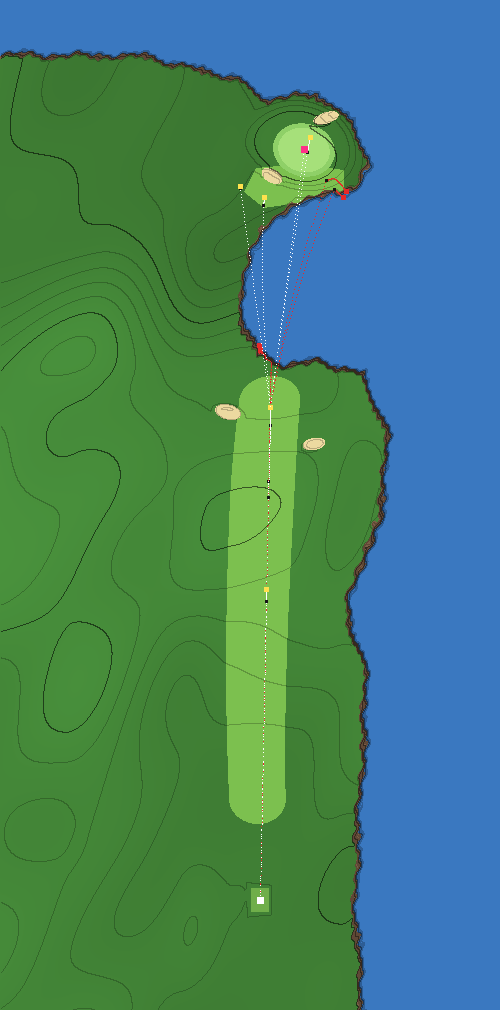
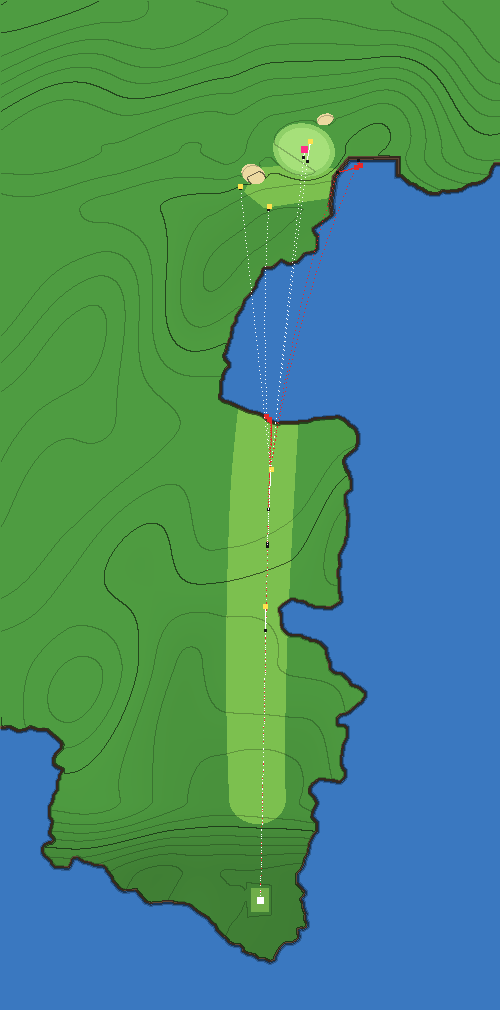
Pebble 8: coastline, heights and greenside bunkers from the lidar
The coastline is the lidar's, read on the cliff face; the plateau ends at
z ~245, so the approach checks start where the pure 3-wood now stops.
The sea is brought in under the green's front-right (§5: heights run
along the hole only, so the real 40 % bank to the sea is flat in the
game). Fairway bunkers dropped (none in the lidar). Recovery test and
ICONIC-HOLES §3 updated.

Claude-Session: https://claude.ai/code/session_01L6C3mgW8iMSD9JZeturm7K

diff --git a/index.html b/index.html
@@ -451,17 +451,22 @@ const HOLES=[
   fw:[[40,14],[200,16],[262,15]],fairway:[[38,262]],
   green:{x:-22,z:375,rx:13,rz:11,rot:0.25},pin:{x:-22,z:375.4},tilt:{x:0.02,z:-0.03},
   features:[
-    {type:'ramp',z0:30,z1:200,dh:5},                                   // the drive climbs to the plateau
-    {type:'ramp',z0:195,z1:262,dh:-2.2},                               // ...which tips toward the cliff edge, so a long drive runs out of land
-    {type:'ramp',z0:262,z1:335,dh:-6},                                 // beyond the chasm the land is lower: the approach plays downhill
-    {type:'rise',area:{x:-22,z:377,rx:19,rz:15,rot:0.25},dh:3,edge:11},  // the green is perched on a knoll above the chasm
+    // heights from the 2017-18 USGS lidar (docs/holes/trace/pebble-8.json), read along the fairway's left half (x 12): the straight tee-pin line hugs the cliff and clips an inlet at z 126-153
+    {type:'ramp',z0:12,z1:50,dh:6.6},                                  // the drive climbs to the plateau: steeply for the first 50 yd...
+    {type:'ramp',z0:50,z1:120,dh:2.6},
+    {type:'ramp',z0:120,z1:225,dh:2.8},                                // ...then gently to its end, 12 yd above the tee
+    {type:'ramp',z0:230,z1:345,dh:-4.2},                               // beyond the chasm the land is lower: the approach plays downhill
+    {type:'ramp',z0:345,z1:375,dh:2.4},                                // up to the green, 8.5 yd above the tee
+    {type:'ramp',z0:375,z1:450,dh:7.2},                                // and the hill behind it
     {type:'cover',area:{pts:[[-2,346],[8,354],[2,366],[-20,368],[-42,365],[-42,352]]},surf:'FAIRWAY'},  // shaved bank in front: short shots roll back to the sea
   ],
   play:{wind:[6,18],greens:{speed:1.1}},
-  bunkers:[{x:-6,z:362,rx:6,rz:3.5,rot:0.5},{x:-33,z:391,rx:7,rz:3,rot:-0.3},{x:16,z:244,rx:7,rz:4,rot:0.25},{x:-27,z:228,rx:6,rz:3.2,rot:-0.2}],
-  water:[{kind:'ocean',profile:'cliff',level:-9,bed:-15,edge:3.5,jag:1.6,
-    shape:{type:'outside',pts:[[2000,-2000],[-50,-2000],[-50,-60],[-46,0],[-48,40],[-52,110],[-41,150],[-60,195],[-62,232],[-50,262],
-      [-30,268],[-12,266],[2,272],[10,288],[11,308],[6,326],[-3,340],[-16,349],[-32,353],[-46,357],[-52,368],[-46,388],[-27,402],[-4,399],[14,410],[60,421],[2000,430]]}}],
+  // greenside bunkers at the lidar's two hollows by the green (3 m relief: front-left 14 x 11.5 yd, back-right 8.5 x 5.5 yd); no fairway bunkers in the lidar
+  bunkers:[{x:3.4,z:363,rx:6.5,rz:5,rot:0.5,depth:0.45,lip:0.25},{x:-32.6,z:390.3,rx:4.5,rz:3,rot:-0.3,depth:0.45,lip:0.25}],
+  water:[{kind:'ocean',profile:'cliff',level:-8.56,bed:-14.5,edge:2,   // the coastline from the lidar, read on the cliff face at 7 m (lidar.py build, water.tol 6), carried out past the hole's edges; level at the real water, 1.15 m
+    shape:{type:'poly',pts:[[-117,368.8],[-118.5,368.8],[-2000,367.5],[-2000,-2000],[-2000,-2000],[2000,-2000],[2000,-2000],[2000,86.5],[2000,87.2],[128.5,86.8],[125,87.2],[121,85.2],[117.5,85.8],[115,87.2],[111,85.8],[109,85.8],[108.5,86.2],[108,85.8],[106.5,85.8],[100.8,81],[99.2,79.5],[98.2,77.5],[98.8,77],[98.8,75.5],[101.8,72.5],[102.8,70.5],[102.8,68.5],[101.5,67.2],[99,66.2],[98.2,65.5],[98.2,64.5],[99.8,62],[99.8,60.5],[100.8,59],[100.8,55],[102.8,52],[103.2,49],[104.8,46.5],[104.8,42],[103.2,39.5],[104.8,33.5],[102.8,31],[102.8,29.5],[104,28.2],[105.5,28.2],[107.5,27.2],[108.2,26],[108.2,24],[107.2,22.5],[104.2,20],[103.8,18.5],[102.5,17.2],[96,16.8],[94.8,19.5],[94.8,20.5],[93.5,21.8],[92,21.8],[91.5,22.2],[88,19.8],[85,19.2],[83,18.2],[81.5,18.2],[81,17.8],[78.5,17.8],[76.8,16.5],[76.2,15],[73.8,12],[73.2,10],[70,6.2],[68,5.2],[62,5.8],[57,-0.2],[54.5,-1.2],[53.5,-0.8],[49.5,-0.8],[49,-0.2],[43.5,-0.2],[43,-0.8],[38.5,-0.8],[38,-1.2],[35,-1.8],[31,-5.2],[26,-8.2],[23.8,-11],[22.2,-12],[21.2,-14.5],[18,-17.8],[17.5,-17.8],[15,-20.8],[12.5,-21.8],[10.5,-21.8],[9.5,-22.2],[8.2,-24],[8.2,-25],[6,-26.2],[3,-26.8],[0.5,-28.8],[-2,-28.8],[-5,-30.2],[-6.8,-29.5],[-6.8,-28.5],[-9.2,-24],[-12,-21.2],[-13,-20.8],[-16,-20.8],[-18.2,-19.5],[-18.8,-18.5],[-18.2,-14.5],[-19,-13.8],[-20,-13.8],[-20.5,-13.2],[-21.5,-13.8],[-22.8,-13],[-22.8,-11.5],[-21.8,-9.5],[-22.2,-7],[-20.8,-3],[-20.8,-1.5],[-19.8,0.5],[-21.8,3],[-21.8,4],[-17.8,8.5],[-17.8,13],[-20.2,16],[-21.2,18],[-21.8,21],[-23.2,23.5],[-24.2,29],[-26.2,33],[-27.8,34.5],[-27.8,38.5],[-25.2,41.5],[-25.8,44.5],[-27.8,48.5],[-26.2,51.5],[-24.2,53.5],[-24.2,56],[-25.8,58.5],[-29.5,61.2],[-32,61.2],[-32.5,60.8],[-38,60.2],[-38.5,59.8],[-40,59.8],[-41.2,61],[-41.8,62],[-41.8,64.5],[-40.8,65.5],[-39.8,68],[-39.8,72],[-40.2,72.5],[-40.8,77.5],[-42.8,81.5],[-42.8,86],[-41.5,86.8],[-39,86.8],[-37.8,88],[-37.8,91],[-40,93.2],[-42.5,93.8],[-44.5,94.8],[-49.5,99.2],[-50,99.2],[-51.8,102],[-51.8,103.5],[-49,105.8],[-45,107.2],[-43.8,109.5],[-41,112.2],[-40,112.8],[-38,112.8],[-36,113.8],[-34.8,115],[-34.2,116],[-34.2,118.5],[-32.8,121.5],[-32.2,125.5],[-29.5,128.2],[-27,129.2],[-25,129.2],[-24,130.2],[-21.5,130.8],[-20,131.8],[-15.5,131.8],[-13,132.8],[-10.2,136],[-10.2,137.5],[-9.8,138],[-9.8,142],[-9.2,142.5],[-9.8,143],[-9.2,143.5],[-8.8,146],[-11,148.2],[-15.5,151.2],[-17,151.2],[-19,150.2],[-22.5,149.8],[-24.5,148.2],[-25.5,148.2],[-27.5,147.2],[-32,147.2],[-32.5,146.8],[-35.5,146.8],[-39.8,149.5],[-39.2,153.5],[-38.8,154],[-38.8,161],[-38.2,161.5],[-38.2,165],[-39.2,167],[-38.8,172.5],[-41.8,178.5],[-42.2,181.5],[-42.8,182],[-43.2,192.5],[-42.8,193],[-42.8,196],[-42.2,196.5],[-41.8,202.5],[-43.5,204.8],[-44.8,205.5],[-44.8,210],[-44.2,210.5],[-43.8,213.5],[-42.2,215.5],[-42.2,216.5],[-41.2,218.5],[-41.2,220],[-42.2,222],[-47.2,226],[-48.2,228.5],[-48.2,232.5],[-47.2,235],[-46,236.2],[-44,237.2],[-43.2,238.5],[-41,240.2],[-38.5,241.2],[-37.5,240.8],[-27.5,240.2],[-24,238.8],[-20,238.8],[-19.5,238.2],[-10.5,238.2],[-10,237.8],[-8,237.8],[-4,239.2],[-1,241.8],[1,242.8],[6,243.8],[15.5,248.2],[19,249.2],[20.8,251],[20.8,253],[20.2,253.5],[20.2,259.5],[19.2,261],[19.2,262.5],[17.8,265.5],[16.2,267],[16.2,268],[18.2,270.5],[18.8,272.5],[17.8,274],[15.8,281],[15.2,281.5],[14.8,286.5],[12.8,289.5],[12.8,291.5],[9.8,296],[8.2,300.5],[5.2,303.5],[2.8,307],[2.2,309.5],[-0.2,313],[-0.8,315.5],[-2,316.8],[-5.5,316.8],[-6.5,317.2],[-10.5,320.8],[-14,318.8],[-15.5,318.8],[-16,319.2],[-18.5,319.8],[-22,323.8],[-27,324.8],[-27.8,326],[-27.8,332],[-26.8,333],[-25.8,335],[-25.8,336],[-34.5,342.2],[-36,342.8],[-41,348.8],[-43,349.8],[-46.5,350.2],[-48.2,353],[-52.2,356.5],[-52.2,357.5],[-54,359.8],[-56.5,361.2],[-62,360.8],[-63,360.2],[-66,362.2],[-70.5,362.8],[-75,358.8],[-77.5,358.2],[-79,356.8],[-81,356.2],[-84,354.2],[-85,354.2],[-85.5,353.8],[-89,353.8],[-91,355.2],[-94.5,354.8],[-95,355.2],[-98.5,355.2],[-99,355.8],[-100.5,355.8],[-104,358.2],[-105,358.2],[-105.5,358.8],[-108,358.8],[-111.5,360.2],[-114.2,362.5],[-115.2,366]]}},
+    {kind:'ocean',profile:'cliff',level:-8.56,bed:-14.5,edge:3.5,   // exaggerated (§5): the sea brought 12 yd in under the green's front-right, to about the 13 m contour of the bank that falls to it at 40 %
+      shape:{type:'poly',pts:[[-36,334],[-34,348],[-36,362],[-44,372],[-70,372],[-70,334]]}}],
   bbox:{x0:-120,x1:130,z0:-55,z1:450},
   trees:[{type:'cypress',n:20,zone:'sides',side:'left',d:[10,60],z:[-10,385],s:[0.95,1.4]},
          {type:'cypress',n:5,zone:'rect',x:[-42,-16],z:[-40,40],s:[1,1.3]},

diff --git a/tests/hole-checks.js b/tests/hole-checks.js
@@ -15,10 +15,10 @@ module.exports = {
       { name: 'a pure driver runs off the end of the plateau into the chasm', shot: { club: 'Hammer', at: [-5, 250], power: 1 }, expect: { end: 'water' } },
       { name: 'even a 90% driver still finds the chasm', shot: { club: 'Hammer', at: [-5, 250], power: 0.9 }, expect: { end: 'water' } },
       { name: 'a pure 3-wood stops on the plateau, short of the cliff', shot: { club: '3-Wood', at: [-5, 250], power: 1 }, expect: { end: 'rest', surf: ['FAIRWAY'] } },
-      { name: 'from there a well-struck iron carries the chasm and holds the green', shot: { from: [-5, 247], club: 'Iron', offset: 0.1 }, expect: { surf: ['GREENS'], maxToPin: 8 } },
-      { name: 'a chunked approach comes up short in the chasm', shot: { from: [-5, 247], club: 'Iron', offset: 0.7 }, expect: { end: 'water' } },
-      { name: 'a ball short-right on the shaved bank feeds back down to the sea', shot: { from: [-5, 247], club: 'Iron', offset: 0.55 }, expect: { end: 'water' } },
-      { name: 'the bail-out left, around the head of the cove, stays dry', shot: { from: [-5, 247], club: 'Iron', at: [10, 356], offset: 0.5 }, expect: { end: 'rest' } },
+      { name: 'from there a well-struck iron carries the chasm and holds the green', shot: { from: [-5, 215], club: 'Iron', offset: 0.1 }, expect: { surf: ['GREENS'], maxToPin: 8 } },
+      { name: 'a chunked approach comes up short in the chasm', shot: { from: [-5, 215], club: 'Iron', offset: 0.7 }, expect: { end: 'water' } },
+      { name: 'a ball short-right on the shaved bank feeds back down to the sea', shot: { from: [-5, 215], club: 'Iron', offset: 0.55 }, expect: { end: 'water' } },
+      { name: 'the bail-out left, around the head of the cove, stays dry', shot: { from: [-5, 215], club: 'Iron', at: [10, 356], offset: 0.5 }, expect: { end: 'rest' } },
     ],
     strategies: [
       { name: 'tee club', plans: [
@@ -30,8 +30,8 @@ module.exports = {
           ['the 3-wood is the play: dry and the best score for both players', r => r['3-wood'].sharp.hazard === 0 && r['3-wood'].sharp.score < r.driver.sharp.score && r['3-wood'].sharp.score < r.iron.sharp.score && r['3-wood'].shaky.score < r.driver.shaky.score],
           ['laying back with an iron is safe but leaves a long approach', r => r.iron.sharp.toPin > r['3-wood'].sharp.toPin + 60] ] },
       { name: 'approach line', plans: [
-          { name: 'pin', shot: { from: [-5, 247], club: 'Iron' } },
-          { name: 'bail', shot: { from: [-5, 247], club: 'Iron', at: [10, 356] } } ],
+          { name: 'pin', shot: { from: [-5, 215], club: 'Iron' } },
+          { name: 'bail', shot: { from: [-5, 215], club: 'Iron', at: [10, 356] } } ],
         expect: [
           ['going at the pin risks the chasm for a shaky player', r => r.pin.shaky.hazard > 0.05 && r.bail.shaky.hazard === 0],
           ['a sharp player hits the green every time', r => r.pin.sharp.hazard === 0 && r.pin.sharp.surfs.GREENS === r.pin.sharp.n],

diff --git a/tests/holes.test.js b/tests/holes.test.js
@@ -259,10 +259,10 @@ test('recovery: on the real holes, the Road Hole bunker pays the most, ordinary 
   assert.ok(recovery(course, { x: road.x, z: road.z }, 'SAND') >= 0.9 * RECOVERY.cap, 'a ball in the pot bunker whose face is the whole story');
   course.prepHole(idx('pebble-8'));
   const bunker = (x, z) => course.BUNKERS.find(b => b.x === x && b.z === z);
-  const beside = bunker(-33, 391), below = bunker(-6, 362);                    // both default bunkers (0.9 deep, 0.25 lip) within 25 yd of the pin
+  const beside = bunker(-32.6, 390.3), front = bunker(3.4, 363);                  // both from the lidar (0.45 deep, 0.25 lip), within 25 yd of the pin
   const rec = b => recovery(course, { x: b.x, z: b.z }, 'SAND');
-  assert.ok(rec(beside) < 0.2, 'a default bunker beside the green is within the lie charge');
-  assert.ok(rec(below) > 3 * rec(beside) && rec(below) > 0.5, 'the one short of the raised green pays far more: the bank above it is the face to climb');
+  // the lidar sets both level with the green (no knoll above them, as the game's design had), so neither has a face to climb: docs/holes/pebble-8.md §6
+  assert.ok(rec(beside) < 0.2 && rec(front) < 0.2, 'shallow bunkers level with the green are within the lie charge');
   course.prepHole(idx('pinehurst-5'));
   assert.equal(recovery(course, { x: 24, z: 432 }, 'FAIRWAY'), 0, 'the lay-up to the elevated plateau is an ordinary wedge');
 });

diff --git a/docs/holes/pebble-8.md b/docs/holes/pebble-8.md
@@ -33,12 +33,12 @@
 
 | Real feature | Game expression | Parameters | What it does to play |
 |---|---|---|---|
-| Uphill drive to a plateau | `ramp` | z 30→200, +5 yd | drives land sooner (shorter carry); the far end is hidden from the tee |
-| Plateau tips to the cliff edge | `ramp` | z 195→262, −2.2 yd | a long drive keeps rolling toward the edge |
-| Fairway runs out at the cliff | `fairway` interval ends at z 262; ocean inlet cut into the coastline (`outside` polygon) | inlet z 266–357, head at x ≈ +11 | anything that rolls past ~265 yards falls into the sea |
-| Land beyond the chasm is lower | `ramp` | z 262→335, −6 yd | the approach plays downhill |
-| Green perched above the chasm | `rise` | ellipse around the green, +3 yd, edge 11 | banks fall away on every side, steepest toward the chasm |
+| Uphill drive to a plateau | three `ramp`s from the 2017-18 USGS lidar, read along the fairway's left half | +6.6 yd over z 12→50, then +5.4 to the plateau's end (12 yd above the tee) | drives land sooner; a pure 3-wood stops 161 from the pin |
+| Fairway runs out at the cliff | the lidar's coastline as the ocean (`poly`, `cliff` profile), read on the cliff face at 7 m | the plateau ends at z ≈ 245; the cove runs to z ≈ 320 on the line | anything that rolls past ~245 yards falls into the sea |
+| Land beyond the chasm is lower | `ramp`s from the lidar | −4.2 yd to the far shore, +2.4 to the green (3.2 below the plateau), +7.2 up the hill behind | the approach plays downhill |
+| Bank falling to the sea right of the green | a second ocean body brought 12 yd in under the green's front-right (§5) | to about the 13 m contour | short-right goes in the sea |
 | Bank in front of the green | `cover` → FAIRWAY | polygon z 346–368 | closely mown, so short balls roll back to the sea instead of stopping in rough |
+| Greenside bunkers | the lidar's two hollows by the green | front-left 13 × 10 yd, back-right 9 × 6 yd, 0.45 deep; no fairway bunkers (none in the lidar) | |
 | Small green, back to front | `green` | 26 × 22 yd, `tilt.z` −0.03 | putts from above are fast; balls feed toward the front |
 | Coastal wind, fast greens | `play` | wind 6–18 mph, `greens.speed` 1.1 | |
 
@@ -49,65 +49,105 @@
 | Characteristic | Real | Game | Why |
 |---|---|---|---|
 | Run-out off the tee | longest hitters club down | a pure driver (and a 90% one) goes into the sea; a pure 3-wood stops ~16 yd short of the edge | makes club choice the tee decision, as it is for pros |
-| Chasm | carry over the cove | ~70 yd of ocean between plateau and green-side bank | a chunk (−20%+ distance) must pay |
+| Chasm | carry over the cove | as the lidar has it (about 75 yd of sea on the line); a chunk pays | — |
+| The bank right of the green | falls 12 m to the sea at about 40 % | the sea brought in to about its 13 m contour (12 yd in) | the game's heights run along the hole only, so the real sideways bank is flat in the game and short-right balls stayed on it; this makes short-right wet, as it is |
 | Shaved bank | rough slope | fairway-cut slope from the green to the cliff | short-right feeds into the sea |
-| Downhill approach | moderate | ~6 yd lower than the plateau | |
+| Downhill approach | 3.3 m (lidar) | 3.2 yd below the plateau | |
 
-**Realism bounds** (`node tests/tools/slope.js pebble-8`, `docs/maps/pebble-8-slope.png`): the green is one tilted plane (`tilt` 3.6 %), so all of the putting surface is in the 2.5–4 % band: no steep ring (0 % over 4 %) and not a dome (tilt coherence 1.00), but the "gentle top" and "flat pockets" bounds read WARN. Deliberate: the design wants fast putts from above and balls that feed along the slope (§4), and the edge-shedding is done by the `rise` around the green, outside the putting surface. Written before the bounds existed; recorded here, not reshaped.
+**Realism bounds** (`node tests/tools/slope.js pebble-8`, `docs/maps/pebble-8-slope.png`): the green is one tilted plane (`tilt` 3.6 %), so all of the putting surface is in the 2.5–4 % band: no steep ring (0 % over 4 %) and not a dome (tilt coherence 1.00), but the "gentle top" and "flat pockets" bounds read WARN. Deliberate: the design wants fast putts from above and balls that feed along the slope (§4), Written before the bounds existed; recorded here, not reshaped. The green is still the ellipse: no aerial yet.
 
 ## 6. Validation
 
 All in `tests/hole-checks.js` → `pebble-8`.
 
-| Shot | Expected | Result |
-|---|---|---|
-| Pure driver, down the middle | water | ✅ water (was fairway before Phase 3) |
-| 90% driver | water | ✅ water |
-| Pure 3-wood | fairway, short of the cliff | ✅ fairway, 130 yd left |
-| Iron from there, slight mishit (0.1) | green within 8 yd | ✅ 7 yd |
-| Chunked iron (0.7) | water | ✅ (was rough) |
-| Thin-right iron (0.55) lands on the shaved bank | water | ✅ (was rough) |
-| Bail-out left around the cove (0.5 miss) | dry | ✅ |
+| Shot | Expected |
+|---|---|
+| Pure driver, down the middle | water |
+| 90% driver | water |
+| Pure 3-wood | fairway, short of the cliff |
+| Iron from (−5, 215), slight mishit (0.1) | green within 8 yd |
+| Chunked iron (0.7) | water |
+| Thin-right iron (0.55) lands on the shaved bank | water |
+| Bail-out left around the cove (0.5 miss) | dry |
 
 | Decision | Must hold | Result |
 |---|---|---|
-| Tee club: driver / 3-wood / iron | driver wet more often than not; 3-wood dry and best for both skills; iron leaves 60+ yd more | driver wet 100% (sharp) / 48% (shaky); 3-wood 0% wet, best score; iron leaves 222 vs 137 |
-| Approach: pin / bail left | pin risks the chasm for a shaky player; sharp always greens it; bail is dry but costs 0.5+ strokes | pin wet 10% for shaky (0% before); bail costs ~0.9 strokes |
+| Tee club: driver / 3-wood / iron | driver wet more often than not; 3-wood dry and best for both skills; iron leaves 60+ yd more | driver wet 100% (sharp) / 57% (shaky); 3-wood best for both |
+| Approach: pin / bail left | pin risks the chasm for a shaky player; sharp always greens it; bail is dry but costs 0.5+ strokes | pin wet 24% for shaky; bail costs a sharp player 1.02 strokes |
+
+**Check-change log**
+
+| Check | Was | Now | Why |
+|---|---|---|---|
+| The approach shots and the approach strategy | from (−5, 247) | from (−5, 215) | The lidar ends the plateau at z ≈ 245, so (−5, 247) is over the sea; (−5, 215) is where the pure 3-wood now stops (161 from the pin) |
+| `tests/holes.test.js` recovery test (Pebble's bunkers) | the bunker short of the raised green pays over 0.5 strokes and 3 × the one beside it | both greenside bunkers are within the lie charge (< 0.2) | The lidar has no knoll: the front-left bunker sits level with the green (floor 18.5 m, green 18.8 m), so there is no face to climb; the Road Hole bunker part of the test is unchanged |
 
 ## 7. Results
 
 ```
 === Pebble Beach (pebble-8) — Distance control off the tee (the plateau ends at a cliff), then a forced carry over an ocean chasm to a small, back-to-front green.
 shot                                                                           before           after
-a pure driver runs off the end of the plateau into the chasm                   FAIRWAY 90y      WATER 101y
-even a 90% driver still finds the chasm                                        FAIRWAY 107y     WATER 103y
-a pure 3-wood stops on the plateau, short of the cliff                         FAIRWAY 130y     FAIRWAY 130y
-from there a well-struck iron carries the chasm and holds the green            GREENS 8y        GREENS 7y
-a chunked approach comes up short in the chasm                                 ROUGH 27y        WATER 31y
-a ball short-right on the shaved bank feeds back down to the sea               ROUGH 19y        WATER 30y
-the bail-out left, around the head of the cove, stays dry                      ROUGH 35y        FAIRWAY 31y
+a pure driver runs off the end of the plateau into the chasm                   FAIRWAY 90y      WATER 135y
+even a 90% driver still finds the chasm                                        FAIRWAY 107y     WATER 136y
+a pure 3-wood stops on the plateau, short of the cliff                         FAIRWAY 130y     FAIRWAY 161y
+from there a well-struck iron carries the chasm and holds the green            GREENS 3y        GREENS 5y
+a chunked approach comes up short in the chasm                                 ROUGH 39y        WATER 29y
+a ball short-right on the shaved bank feeds back down to the sea               ROUGH 29y        WATER 27y
+the bail-out left, around the head of the cove, stays dry                      ROUGH 35y        FAIRWAY 34y
 
   strategy: tee club
   plan       skill   before: wet green score   after: wet green score
   driver     sharp           0%   0% 3.82            100%   0% 5.92
-  driver     shaky           0%   0% 3.99             48%   0% 5.02
-  3-wood     sharp           0%   0% 3.92              0%   0% 3.93
-  3-wood     shaky           0%   0% 4.07              0%   0% 4.09
-  iron       sharp           0%   0% 4.26              0%   0% 4.31
-  iron       shaky           0%   0% 4.31              0%   0% 4.37
+  driver     shaky           0%   0% 3.99             57%   0% 5.20
+  3-wood     sharp           0%   0% 3.92              0%   0% 4.04
+  3-wood     shaky           0%   0% 4.07              5%   0% 4.22
+  iron       sharp           0%   0% 4.26              0%   0% 4.35
+  iron       shaky           0%   0% 4.31             14%   0% 4.62
 
   strategy: approach line
   plan       skill   before: wet green score   after: wet green score
-  pin        sharp           0% 100% 2.90              0% 100% 2.75
-  pin        shaky           0%  76% 3.07             10%  71% 3.13
-  bail       sharp           0%   0% 3.70              0%   0% 3.69
-  bail       shaky           0%   0% 3.71              0%   0% 3.64
-  payoff of pin over bail (strokes saved): sharp 0.80 → 0.94, shaky 0.64 → 0.51   (before → after)
+  pin        sharp           0% 100% 2.35              0% 100% 2.66
+  pin        shaky           0%  43% 3.09             24%  52% 3.40
+  bail       sharp           0%   0% 3.70              0%   0% 3.68
+  bail       shaky           0%   0% 3.72              0%   0% 3.66
+  payoff of pin over bail (strokes saved): sharp 1.35 → 1.02, shaky 0.62 → 0.26   (before → after)
+
+"score" = expected strokes for the whole hole from that moment (tour-style baseline; water/OB = stroke and distance).
 ```
 
 Expected strokes ("score") come from the baseline in `tests/hole-play.js`, including its recovery-difficulty term (see `docs/ICONIC-HOLES.md`). "Before" is the original hole as it stood at commit 548d49a: the same tee and pin, none of the iconic-hole features, play profile or hazards.
 
-## 8. Visual review — does it look like the hole?
+## 8. Review — does it look like the hole?
+
+**Fast lane, lidar** (2026-10-20). Heights, the coastline and the greenside bunkers from the lidar; the green is still the ellipse (no aerial yet).
+
+**References used**: USGS 3DEP 1 m DEM, `CA_AZ_FEMA_R9_Lidar_2017_D18`, tile x59y405 (2017-18; not in the repo); a map pin on the green from the project owner. The tee is the pad at the south-west tip of the point beside the 7th green, 386 m (422 yd; the card's 428) from the pin. Frame: `docs/holes/trace/pebble-8.json` (bearing 56.5°, 0.974 game yd per m: the straight line matches the card's 376).
+
+**What changed**
+
+| Item | Was | Now |
+|---|---|---|
+| Coastline | an invented `outside` polygon, the plateau ending at z 262 | the lidar's, read on the cliff face at 7 m: the plateau ends at z ≈ 245 and a small inlet bites the fairway's right edge at z 126–153 |
+| Heights | +5 to the plateau, −2.2 toward its end, −6 beyond the chasm, a +3 knoll under the green | from the lidar: 12 yd up to the plateau (steep for the first 50 yd), the green 3.2 below it, the hill behind |
+| Greenside bunkers | front-left (−6, 362), back-right (−33, 391), 1.6 deep | at the lidar's hollows (3.4, 363) and (−32.6, 390.3), 0.45 deep |
+| Fairway bunkers | two, on the plateau's end | none: no hollows there in the lidar (the cliff is) |
+| Highest hop, ten seeds (from the first touchdown) | 3.87 yd | 2.57 yd |
+
+**Renders**: `docs/maps/pebble-8-tee.png`, `docs/maps/pebble-8-aerial.png`.
+
+**Verdict**
+- Tee and direction: **matches** (the lidar's tee pad; the straight line is within 6 yd of the card).
+- Heights: **matches** along the hole (lidar); the sideways bank right of the green is **can't express yet** (heights run along the hole only), so the sea is brought in under it instead (§5).
+- Green: **no reference** — still the ellipse.
+- Bunkers: **close** — at the lidar's hollows; sizes from 3 m relief, not traced.
+- Water and surroundings: **matches** for the coastline and the cove.
+
+**Open items**
+1. An aerial of the green complex: trace the green and its bunkers.
+2. A sideways height primitive (a bank across the hole), so the real fall to the sea right of the green replaces the moved shoreline.
+
+### Earlier review-only pass
+
 
 **Review-only pass, no reference image yet** (2026-10-19). The verdicts below compare the game's renders (`python3 tests/tools/render.py pebble-8 tee bird approach green aerial`; the green-complex view is committed as `docs/maps/pebble-8-aerial.png`) with this spec's sources and what is widely known of the hole. Nothing here was traced, so no shape is measured: "close" means the parts are there and in the right places, not that their sizes are right, and every **no reference** row waits for a photo. The step and its tools: `docs/ICONIC-HOLES.md` §2, step 7.
 

diff --git a/docs/ICONIC-HOLES.md b/docs/ICONIC-HOLES.md
@@ -207,12 +207,12 @@ Chosen because they share almost nothing:
 
 | Hole | Primary challenge | Mostly expressed by | Visual review (§8 of its spec) |
 |---|---|---|---|
-| [Pebble Beach No. 8](holes/pebble-8.md) | Distance control off the tee, then a forced carry over a chasm | `ramp` ×3, `rise`, `cover`, an ocean inlet in the cliff coastline | review-only: no photo yet |
-| [Augusta No. 13](holes/augusta-13.md) | Risk/reward from a sidehill lie: go for it over the creek or lay up | `ramp` (speed slot), `tilt` + StanceModel, `rise` + `cover` (shaved bank), green speed | review-only: no photo yet |
+| [Pebble Beach No. 8](holes/pebble-8.md) | Distance control off the tee, then a forced carry over a chasm | the coastline, heights and greenside bunkers **from the 2017-18 lidar**; the sea brought in under the green's front-right (§5); `cover` (shaved bank) | **fast lane, lidar**: green still an ellipse (no aerial) |
+| [Augusta No. 13](holes/augusta-13.md) | Risk/reward from a sidehill lie: go for it over the creek or lay up | the tributary, bunkers and heights from the corner on **from the 2018 lidar**; the green **traced on a rendering placed by its four lidar bunkers**; `ramp` (speed slot, §5), `tilt` + StanceModel | **fast lane, lidar**: the frame holds the second leg only (the real dogleg is sharp) |
 | [TPC Sawgrass No. 17](holes/sawgrass-17.md) | Pure distance/direction control to an island, in the wind | the lake, island, walkway and heights **from the lidar**; the green and a pot bunker (×2 on purpose) **traced on an aerial placed by the lidar**; a mound round the bunker; `windPush` | **traced and signed off**: 2018 USGS lidar + aerial (matched, IoU 0.905) + tee photo (checks the direction to 2.5 px) |
 | [St Andrews Old Course No. 17](holes/standrews-17.md) | Run-out to a green with a deep pot bunker, a road and a wall behind, on firm turf in wind | `ROAD`, `wall` obstacle, deep bunker, `firm`, wind | review-only: no photo yet |
-| [Augusta National No. 12](holes/augusta-12.md) | Distance control over a creek to a shallow, wide, angled green in swirling wind | creek + shaved bank, `rise` ×2, bunkers front and back, `windPush` | review-only: no photo yet |
-| [Pinehurst No. 2, No. 5](holes/pinehurst-5.md) | Par 5: go for an elevated plateau green from a sidehill lie, or lay up and wedge onto the top | plateau `hollow` (`flat`), `tilt` + StanceModel, runoffs + `WASTE` | review-only: no photo yet |
+| [Augusta National No. 12](holes/augusta-12.md) | Distance control over a creek to a shallow, wide, angled green in swirling wind | Rae's Creek, three bunkers and the heights **from the 2018 lidar**; the green **traced on a drawing placed by its lidar bunkers**; `windPush` | **fast lane, lidar** |
+| [Pinehurst No. 2, No. 5](holes/pinehurst-5.md) | Par 5: go for an elevated plateau green from a sidehill lie, or lay up and wedge onto the top | heights and the fairway's slant (falling left: ball above the feet) **from the 2003 NC DEM** (3.4 m, no 1 m lidar here); plateau `hollow` (`flat`), runoffs + `WASTE` | **fast lane, coarse heights**: bunkers, waste and green unmeasured |
 | [Riviera No. 6](holes/riviera-6.md) | Par 3: the decision is the pin, not the club: a bunker in the middle of the green, a tier between the two pin areas, a big bunker short and small ones behind and off the left end | the green and four bunkers **traced from two photos and sized by lidar** (the middle bunker ×2 on purpose), heights from the lidar (`ramp` ×4: a dip short of the green, the bank behind it), `step` + `hollow` + `tilt` on the green | **traced and signed off**: aerial + tee photo (rms 1.1 px) + 2025 USGS lidar |
 
 ### 3.1 What the visual review found, ranked
@@ -221,11 +221,11 @@ Riviera No. 6 and Sawgrass No. 17 were reviewed against photos and lidar; the ot
 
 | # | Gap | Holes | Kind | Changes play? | Next step |
 |---|---|---|---|---|---|
-| 1 | **Green and bunker shapes are written-source guesses.** On Riviera the tracing found the green 50 % too big, the middle bunker 3.5 × too wide, the back bunker 4.6 × too big, the "front-left" bunker 12 yd out of place and a fourth bunker missing. Sawgrass No. 17 traced from lidar and an aerial: the island a quarter smaller than its ellipse, the green a heart 5.6 yd further left, the pot bunker 11 yd left of where it was, on the line to the pin. The other five greens and their bunkers are still ellipses placed from words | the five untraced | **expressible now** (traced outlines) | yes: the shot each hole is about; checks may need retuning, as Riviera's did | lidar first (shapes and positions of the bunkers, the hole's direction), then an aerial of each green complex; trace, re-run the hole's checks. Order: ~~Sawgrass 17~~ (done), Augusta 12 (shape only), then the rest with row 2. `lidar.py` now does the lidar half from a map pin |
-| 2 | **Heights are design guesses.** ~~Riviera's tee, the dip and the bank behind the green~~ (built from the 2025 lidar: the "raised tee" was the dip in front of it); Pebble's climb, chasm and green knoll; the fall into Augusta No. 13's corner; Pinehurst's rise. A photo taken from 120 yd or more cannot measure them (Riviera's tee-photo fit runs away when asked) | Riviera, Pebble, Augusta 13, Pinehurst | expressible (`ramp`, `rise`); **data: lidar** (USGS for the US holes, Scottish public lidar for St Andrews; §2.1) | yes | Augusta 13's corner, Pinehurst's plateau, then Pebble (it also needs row 3) |
+| 1 | **Green and bunker shapes are written-source guesses.** On Riviera the tracing found the green 50 % too big, the middle bunker 3.5 × too wide, the back bunker 4.6 × too big, the "front-left" bunker 12 yd out of place and a fourth bunker missing. Sawgrass No. 17 traced from lidar and an aerial: the island a quarter smaller than its ellipse, the green a heart 5.6 yd further left, the pot bunker 11 yd left of where it was, on the line to the pin. The other five greens and their bunkers are still ellipses placed from words | the five untraced | **expressible now** (traced outlines) | yes: the shot each hole is about; checks may need retuning, as Riviera's did | lidar first (shapes and positions of the bunkers, the hole's direction), then an aerial of each green complex; trace, re-run the hole's checks. Order: ~~Sawgrass 17~~ (done); ~~Augusta 12, Augusta 13~~ (lidar bunkers, greens traced on drawings placed by them); ~~Pebble 8~~ (lidar bunkers, green still an ellipse); Pinehurst 5 waits for 1 m lidar (NC 2015, `sdd.nc.gov`); St Andrews for the Scottish lidar. `lidar.py` does the lidar half from a map pin |
+| 2 | **Heights are design guesses.** ~~Riviera's tee, the dip and the bank behind the green~~ (built from the 2025 lidar: the "raised tee" was the dip in front of it); Pebble's climb, chasm and green knoll; the fall into Augusta No. 13's corner; Pinehurst's rise. A photo taken from 120 yd or more cannot measure them (Riviera's tee-photo fit runs away when asked) | Riviera, Pebble, Augusta 13, Pinehurst | expressible (`ramp`, `rise`); **data: lidar** (USGS for the US holes, Scottish public lidar for St Andrews; §2.1) | yes | ~~Augusta 13~~ (from the corner on; its drive keeps a designed speed slot), ~~Pebble~~ (lidar), ~~Pinehurst~~ (2003 3.4 m DEM: the fairway slants the other way); St Andrews waits for the Scottish lidar. Heights run along the hole only, so a sideways bank (Pebble's fall to the sea right of the green) cannot be expressed yet |
 | 3 | **Blind shots and side out-of-bounds.** St Andrews' drive over the sheds with OB along the hotel is played as an open fairway; Pebble's blind drive has no aiming rock | St Andrews, Pebble | **can't express yet**: a blind-shot primitive (what the player sees from the tee) and an OB line | yes: St Andrews' first shot is not the real one | design the two primitives once, generically |
 | 4 | **Buildings and backdrops.** Riviera's hedge and houses on the hill (its signature view), St Andrews' hotel and sheds. The game has one building, a red-roofed `clubhouse`, one per hole | Riviera, St Andrews | **can't express yet**: a building prop (size, colour, count, on raised ground) and a hedge | no (look only) | one generic prop, then place from the photos |
-| 5 | **Deep bunkers in traced shapes.** A traced bunker's walls are steeper than an ellipse's at the same depth, and the ball model bounces off steep sand faces, so Riviera's front and middle bunkers are shallower than the real ones to pass the hop guard | Riviera now; St Andrews' Road Hole Bunker when traced. **The random-shot hop guard (`tests/ball.test.js`, under 3.5 yd) hid this on four holes:** it drew every hole's 600 shots from one stream, so it passed at its one seed by luck. Over ten seeds, each hole on its own stream (and counting dry ground only): St Andrews up to 7.9 yd, Augusta 12 up to 5.1, Pinehurst up to 5.5, Riviera up to 4.8, all off steep sand or banks; Sawgrass under 1.7 in every seed. **Measured since:** none of those hops starts on sand (it barely bounces); every one is a bounce on a grass lip, bank or falloff of 14–57°, where the bounce keeps its speed along the face and an uphill face sends it up. A rule that let steep faces grab that run cut the hops but also kept Riviera's wedge in its middle bunker and stopped run-ups onto Augusta 13's green, so it was not kept. The lever is the bunkers' shape: rebuild them from lidar (`lidar.py build`) with real depths and lips set into the land, then re-measure | **can't express yet**: a sand face that takes the pace off a ball (plugging, or a soft lip) | yes: recovery from the sand | a BallModel change with its own tests |
+| 5 | **Deep bunkers in traced shapes.** A traced bunker's walls are steeper than an ellipse's at the same depth, and the ball model bounces off steep sand faces, so Riviera's front and middle bunkers are shallower than the real ones to pass the hop guard | Riviera now; St Andrews' Road Hole Bunker when traced. **The random-shot hop guard (`tests/ball.test.js`, under 3.5 yd) hid this on four holes:** it drew every hole's 600 shots from one stream, so it passed at its one seed by luck. Over ten seeds, each hole on its own stream (and counting dry ground only): St Andrews up to 7.9 yd, Augusta 12 up to 5.1, Pinehurst up to 5.5, Riviera up to 4.8, all off steep sand or banks; Sawgrass under 1.7 in every seed. **Measured since:** none of those hops starts on sand (it barely bounces); every one is a bounce on a grass lip, bank or falloff of 14–57°, where the bounce keeps its speed along the face and an uphill face sends it up. A rule that let steep faces grab that run cut the hops but also kept Riviera's wedge in its middle bunker and stopped run-ups onto Augusta 13's green, so it was not kept. The lever is the bunkers' shape: rebuild them from lidar (`lidar.py build`) with real depths and lips set into the land, then re-measure. **Done for Augusta 12, Augusta 13, Pebble and Pinehurst (2026-10-20)**: bunkers 0.4–0.55 yd deep, lips 0.25; highest hop over ten seeds, counted from the first touchdown (a lip graze at launch is not a hop): Augusta 12 5.34 → 3.05, Augusta 13 3.36 → 2.63, Pebble 3.87 → 2.57, Pinehurst 2.72 → 3.21 (a drive off the fairway bunker's lip). St Andrews' 4.76 (the guard's own seed) is a ball rolling into a 31° grass bank at (15, 450), not its bunker: still open | **can't express yet**: a sand face that takes the pace off a ball (plugging, or a soft lip) | yes: recovery from the sand | a BallModel change with its own tests |
 | 6 | Small things that are expressible now: Sawgrass' walkway (a band island), the side of Augusta No. 12's Hogan Bridge (data, to confirm), Riviera's cart path (a `cover` band) and its trees where the photos have them (tree zones) | Sawgrass, Augusta 12, Riviera | **expressible now** | no | do with each hole's photos |
 | 7 | Cosmetic primitives: a sycamore tree type; a per-hole switch for the rocks scattered in every hole's rough | Riviera (the rocks: every hole) | **can't express yet** | no | when convenient |
 

diff --git a/docs/holes/augusta-12.md b/docs/holes/augusta-12.md
@@ -135,7 +135,7 @@ with a 14 mph tailwind, a stock shot flies the green into the back bunkers or  R
 | Front bunker | ellipse 12 × 6 yd at (14, 131), 1.6 deep | lidar outline 9.5 × 8.5 yd at (4.7, 127.2), 0.41 deep |
 | Back bunkers | two ellipses, back-left (21, 147) and back-right (-12, 152), 1.6 deep | both behind the left half, at (7.6, 148) and (1, 151.8), 0.54 and 0.50 deep |
 | Hogan Bridge | (-34, 134): right | (30, 93): left |
-| Highest hop, ten seeds (`tests/ball.test.js` loop) | 5.34 yd | 3.29 yd |
+| Highest hop, ten seeds (`tests/ball.test.js` loop, from the first touchdown) | 5.34 yd | 3.05 yd |
 
 **Renders**: `docs/maps/augusta-12-tee.png`, `docs/maps/augusta-12-aerial.png`.
 
